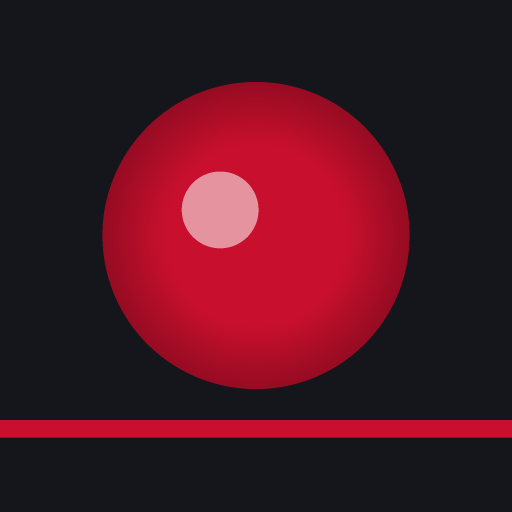
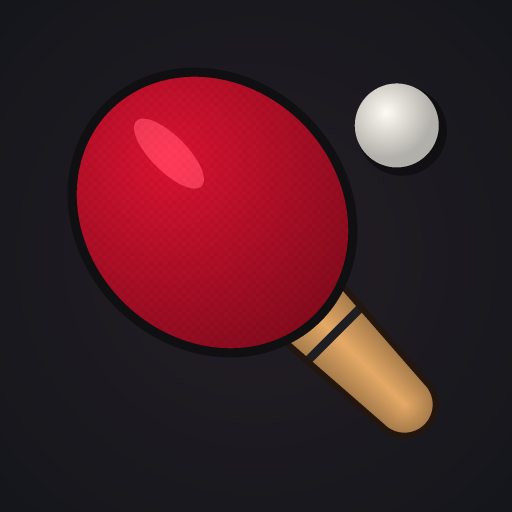
Treningssiden: bordtennislogo som app-ikon

diff --git a/trening/index.html b/trening/index.html
@@ -10,8 +10,8 @@
 <meta name="apple-mobile-web-app-title" content="Trening">
 <meta name="apple-mobile-web-app-status-bar-style" content="black">
 <meta name="mobile-web-app-capable" content="yes">
-<link rel="apple-touch-icon" href="ikon-180.png">
-<link rel="icon" type="image/png" sizes="192x192" href="ikon-192.png">
+<link rel="apple-touch-icon" href="ikon-180.png?v=2">
+<link rel="icon" type="image/png" sizes="192x192" href="ikon-192.png?v=2">
 <title>Trening – Figgjo BTK</title>
 <link rel="preconnect" href="https://fonts.googleapis.com">
 <link href="https://fonts.googleapis.com/css2?family=Outfit:wght@600;700;800&display=swap" rel="stylesheet">
@@ -24644,7 +24644,7 @@ function getExercisePR(exerciseName) {
   if (standalone || seen >= 3) return;
   try { localStorage.setItem("tl_tp_a2hs", String(seen + 1)); } catch (e) {}
   var ios = /iphone|ipad|ipod/i.test(navigator.userAgent);
-  host.innerHTML = '<div class="tp-a2hs"><img src="ikon-180.png" alt=""><div><b>Legg treningen på hjemskjermen</b>' +
+  host.innerHTML = '<div class="tp-a2hs"><img src="ikon-180.png?v=2" alt=""><div><b>Legg treningen på hjemskjermen</b>' +
     (ios ? 'Trykk på Del-knappen <span aria-hidden="true">⬆</span> nederst og velg «Legg til på Hjem-skjerm».' : 'Trykk på menyen ⋮ øverst og velg «Legg til på startsiden».') +
     '</div><button type="button" aria-label="Lukk">✕</button></div>';
   host.querySelector("button").addEventListener("click", function () { host.innerHTML = ""; try { localStorage.setItem("tl_tp_a2hs", "9"); } catch (e) {} });

diff --git a/index.html b/index.html
@@ -923,8 +923,8 @@
   <button class="bla neste" onclick="blaBilde(1)" aria-label="Neste bilde">›</button>
 </div>
 
-<script src="innhold.js?v=1794042171"></script>
-<script src="serie.js?v=1794042171"></script>
+<script src="innhold.js?v=1794042617"></script>
+<script src="serie.js?v=1794042617"></script>
 <script>
 const ANTALL_NYHETER_FORST = 6;
 
